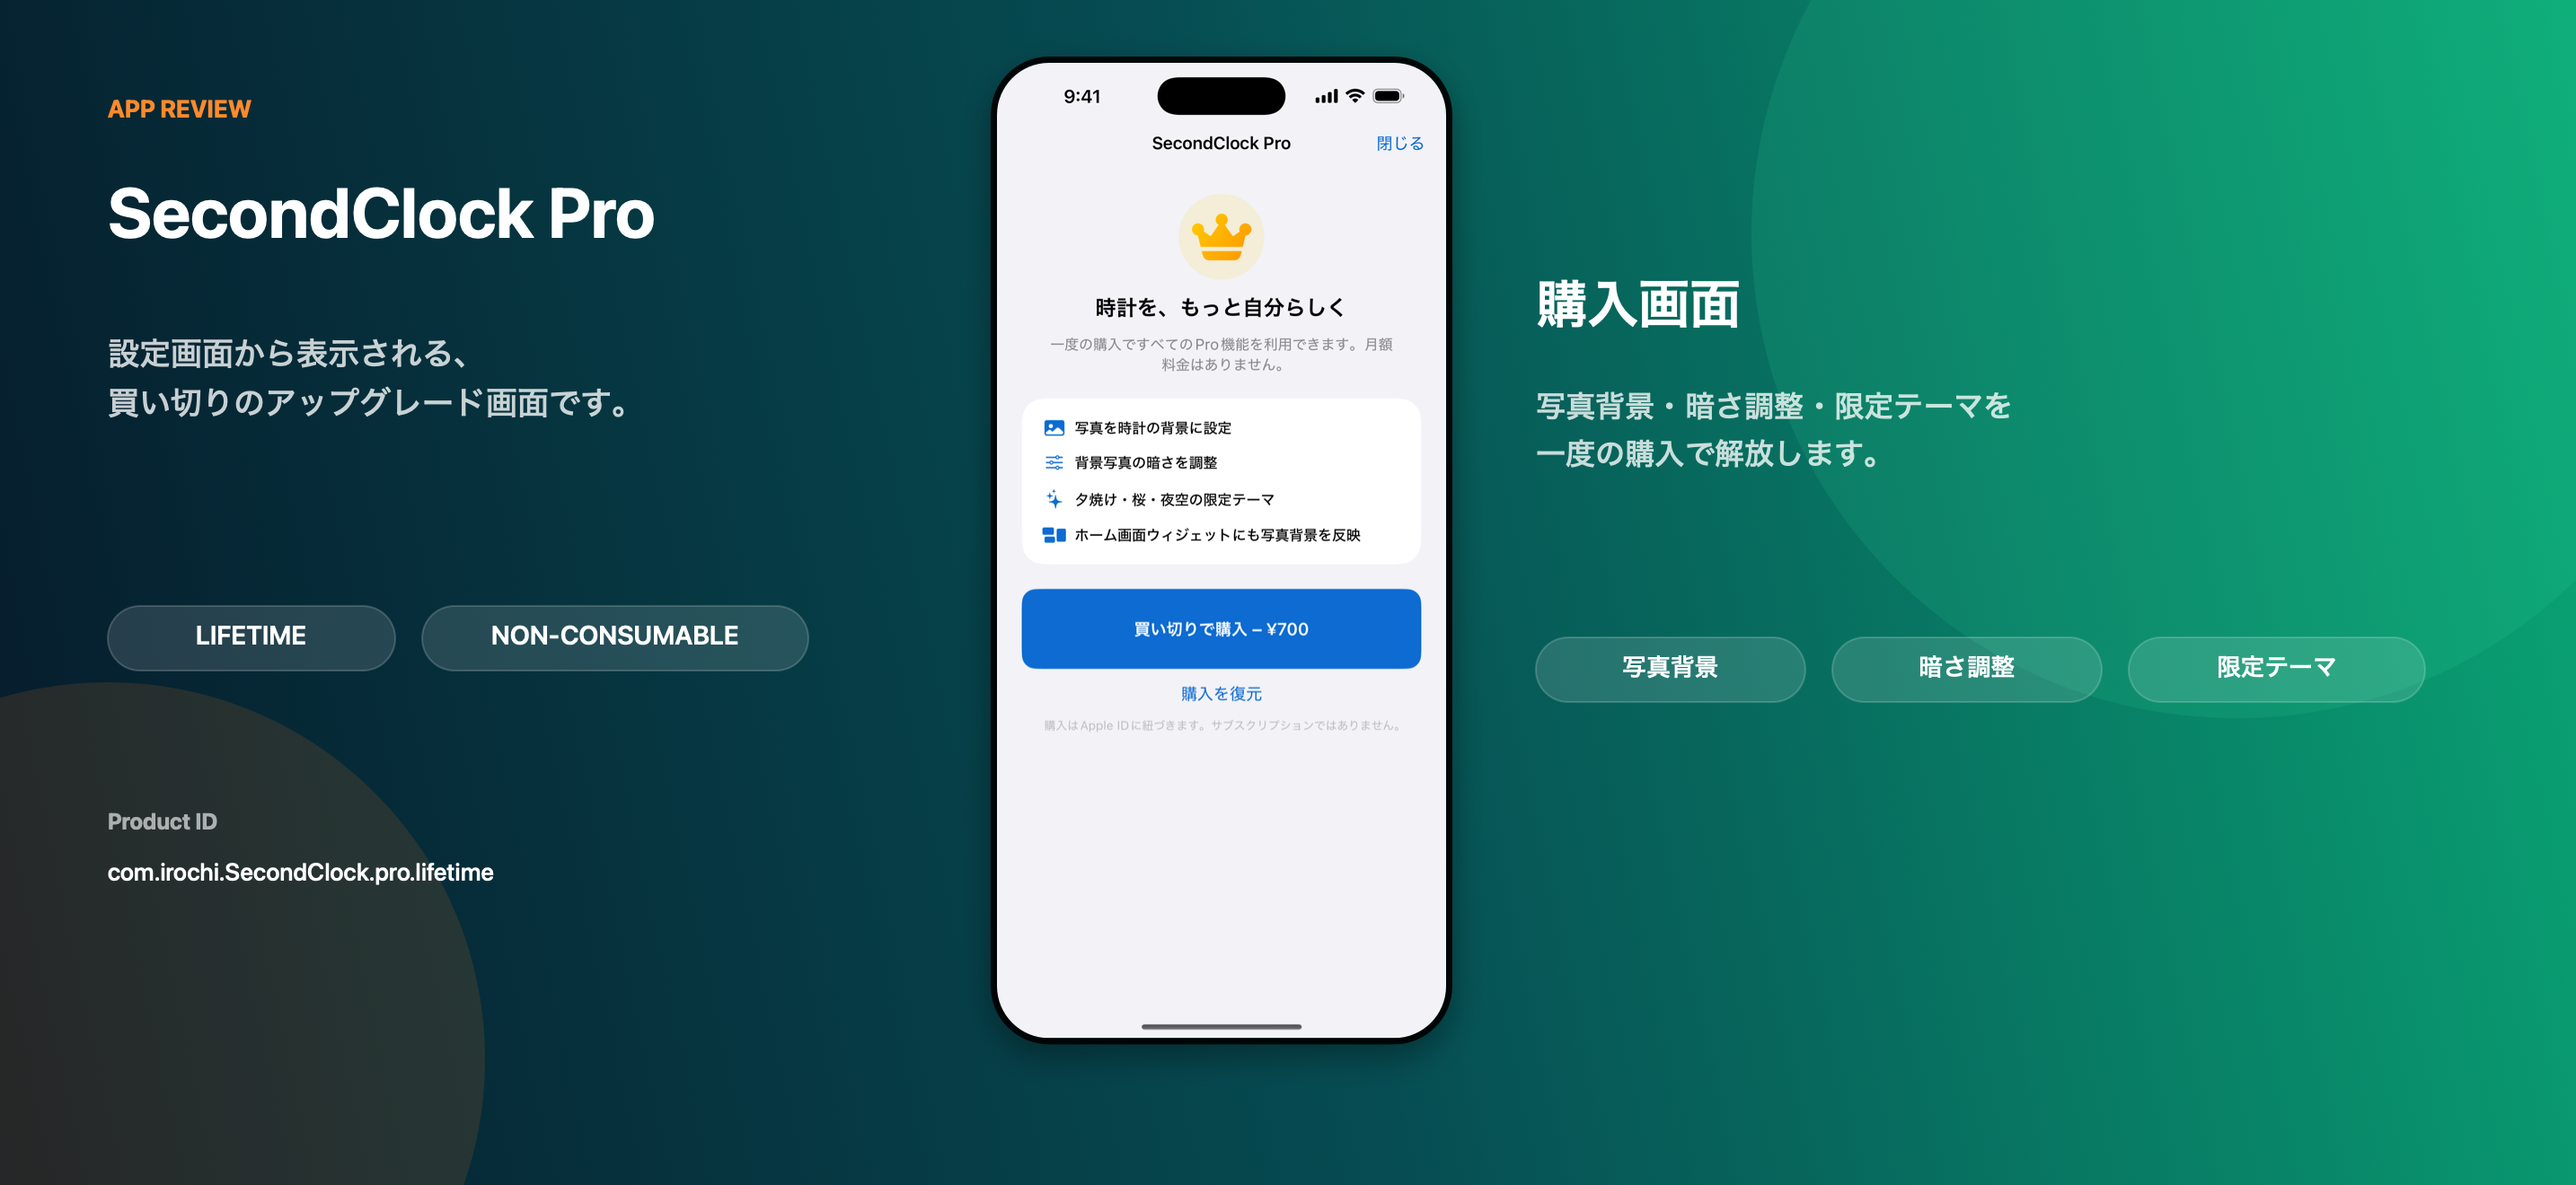
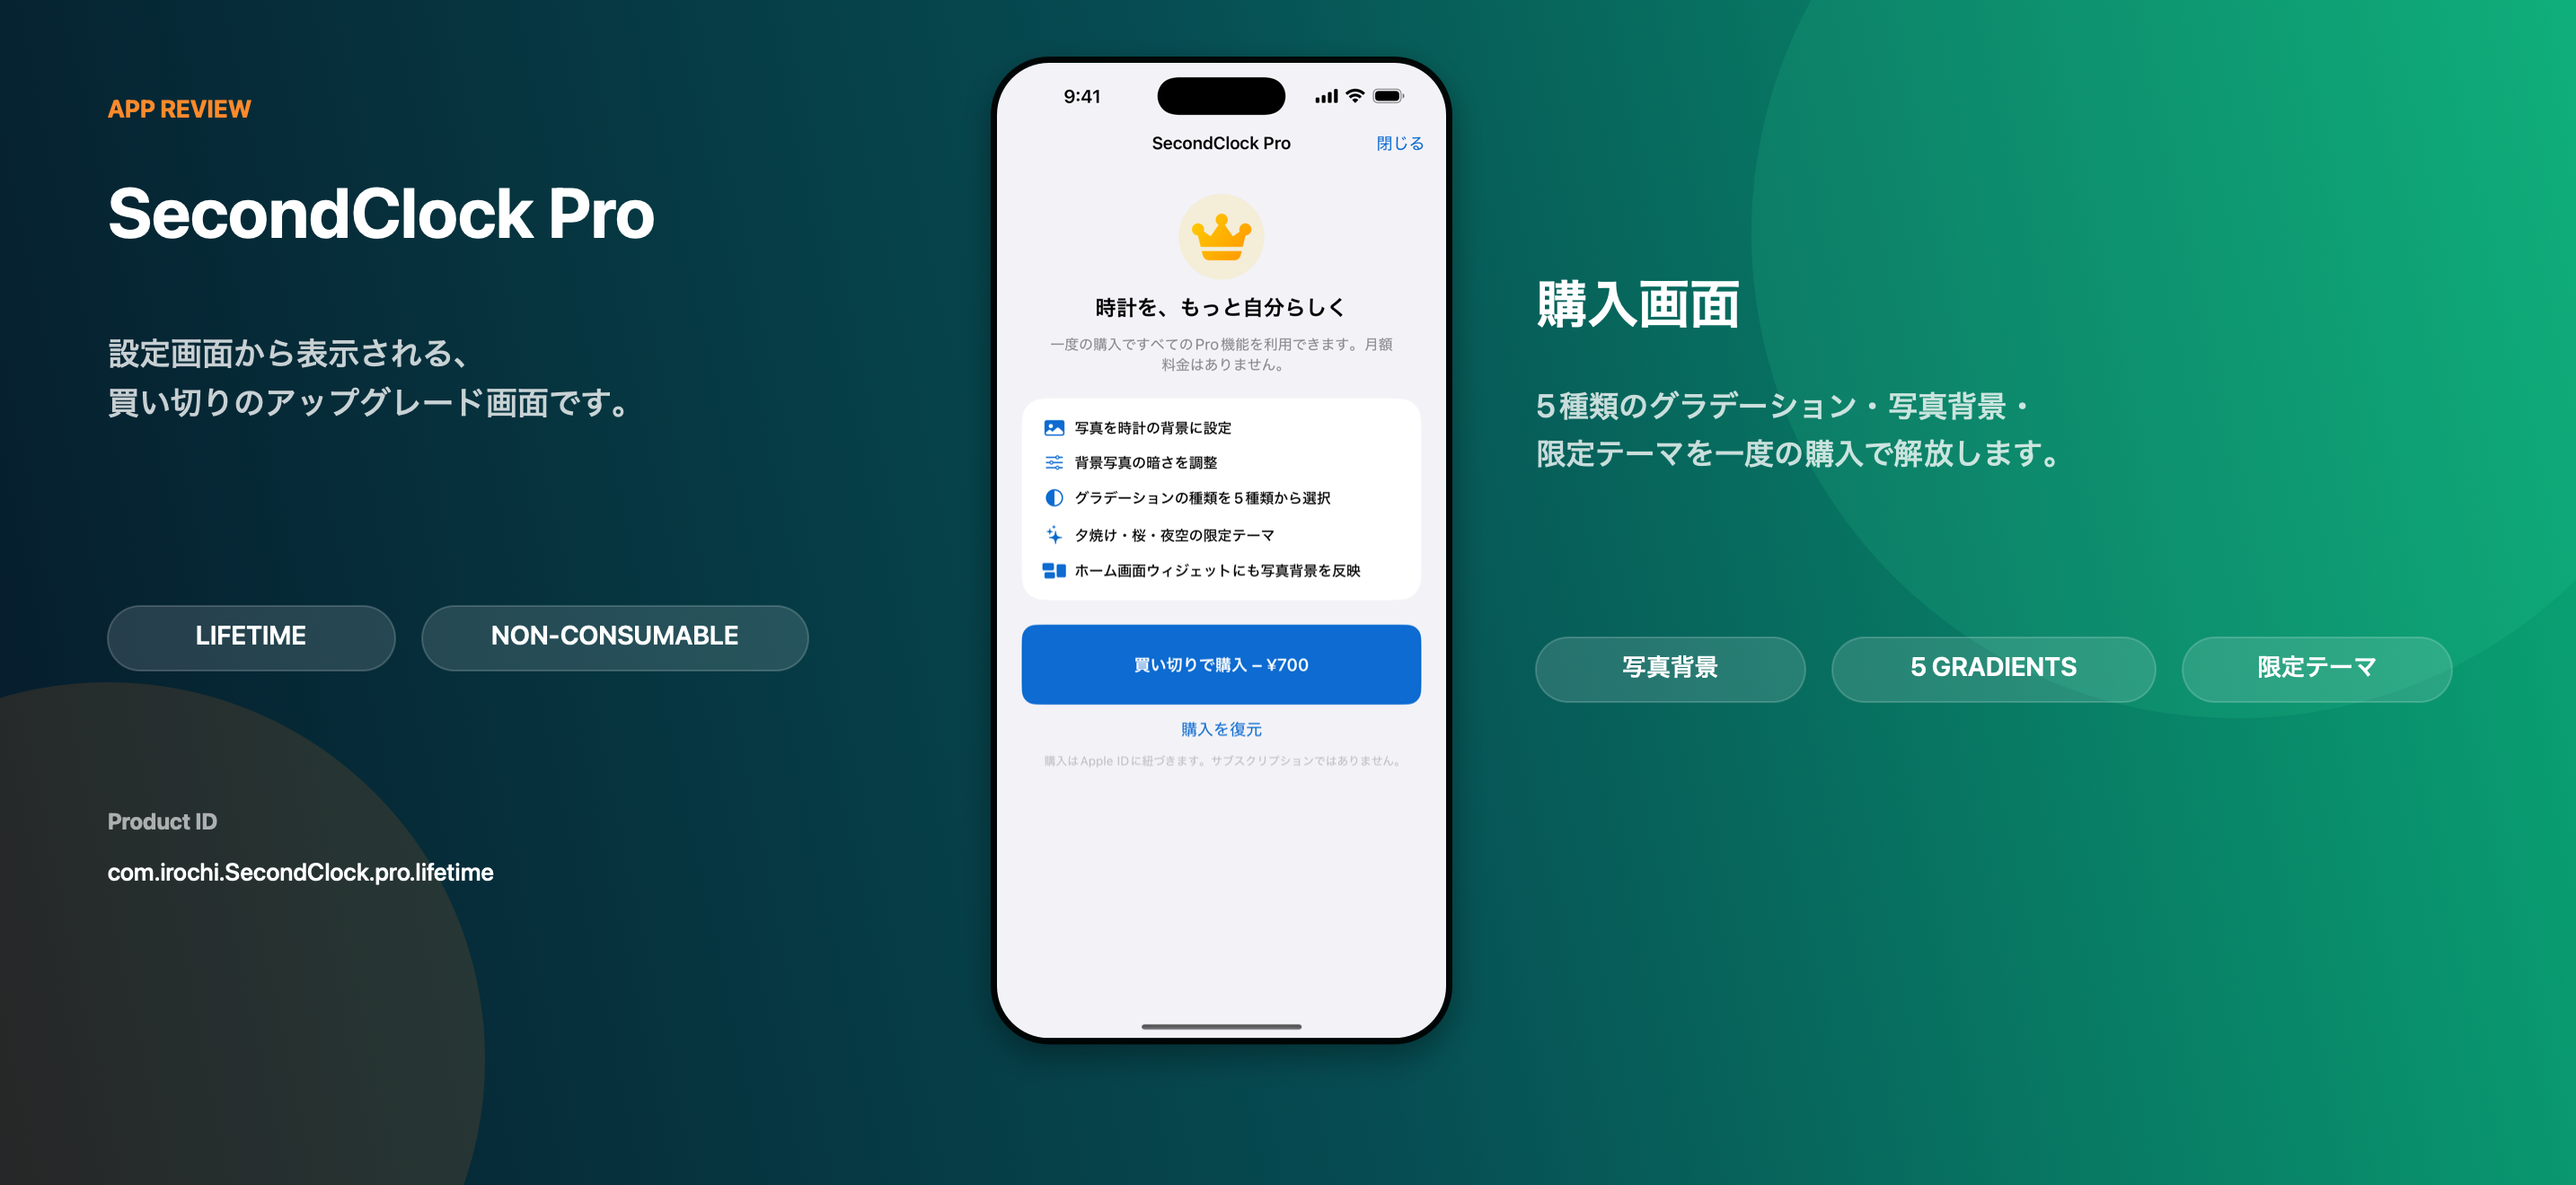
Add Pro gradient style selection

diff --git a/Shared/ClockPreferences.swift b/Shared/ClockPreferences.swift
@@ -43,6 +43,26 @@ enum ClockDisplaySize: String, Codable, CaseIterable, Identifiable {
     }
 }
 
+enum ClockGradientStyle: String, Codable, CaseIterable, Identifiable {
+    case diagonalDown
+    case diagonalUp
+    case horizontal
+    case vertical
+    case radial
+
+    var id: String { rawValue }
+
+    var title: String {
+        switch self {
+        case .diagonalDown: "左上 → 右下"
+        case .diagonalUp: "左下 → 右上"
+        case .horizontal: "左 → 右"
+        case .vertical: "上 → 下"
+        case .radial: "中央 → 外側"
+        }
+    }
+}
+
 enum ClockFontDesign: String, Codable, CaseIterable, Identifiable {
     case rounded
     case standard
@@ -146,6 +166,7 @@ struct ClockPreferences: Codable, Equatable {
     var solidColor: RGBAColor
     var gradientStartColor: RGBAColor
     var gradientEndColor: RGBAColor
+    var gradientStyle: ClockGradientStyle
     var photoDimming: Double
 
     static let `default` = ClockPreferences(
@@ -158,6 +179,7 @@ struct ClockPreferences: Codable, Equatable {
         solidColor: .midnight,
         gradientStartColor: .indigo,
         gradientEndColor: .blue,
+        gradientStyle: .diagonalDown,
         photoDimming: 0.28
     )
 
@@ -171,6 +193,7 @@ struct ClockPreferences: Codable, Equatable {
         case solidColor
         case gradientStartColor
         case gradientEndColor
+        case gradientStyle
         case photoDimming
     }
 
@@ -184,6 +207,7 @@ struct ClockPreferences: Codable, Equatable {
         solidColor: RGBAColor,
         gradientStartColor: RGBAColor,
         gradientEndColor: RGBAColor,
+        gradientStyle: ClockGradientStyle,
         photoDimming: Double
     ) {
         self.showDate = showDate
@@ -195,6 +219,7 @@ struct ClockPreferences: Codable, Equatable {
         self.solidColor = solidColor
         self.gradientStartColor = gradientStartColor
         self.gradientEndColor = gradientEndColor
+        self.gradientStyle = gradientStyle
         self.photoDimming = photoDimming
     }
 
@@ -220,6 +245,8 @@ struct ClockPreferences: Codable, Equatable {
             ?? defaults.gradientStartColor
         gradientEndColor = try values.decodeIfPresent(RGBAColor.self, forKey: .gradientEndColor)
             ?? defaults.gradientEndColor
+        gradientStyle = try values.decodeIfPresent(ClockGradientStyle.self, forKey: .gradientStyle)
+            ?? defaults.gradientStyle
         photoDimming = try values.decodeIfPresent(Double.self, forKey: .photoDimming)
             ?? defaults.photoDimming
     }
@@ -235,6 +262,7 @@ struct ClockPreferences: Codable, Equatable {
         try values.encode(solidColor, forKey: .solidColor)
         try values.encode(gradientStartColor, forKey: .gradientStartColor)
         try values.encode(gradientEndColor, forKey: .gradientEndColor)
+        try values.encode(gradientStyle, forKey: .gradientStyle)
         try values.encode(photoDimming, forKey: .photoDimming)
     }
 }

diff --git a/Shared/ClockAppearance.swift b/Shared/ClockAppearance.swift
@@ -19,14 +19,7 @@ struct ClockBackgroundView: View {
             preferences.solidColor.color
 
         case .gradient:
-            LinearGradient(
-                colors: [
-                    preferences.gradientStartColor.color,
-                    preferences.gradientEndColor.color
-                ],
-                startPoint: .topLeading,
-                endPoint: .bottomTrailing
-            )
+            gradientBackground
 
         case .photo:
             if let image = loadsWidgetSizedPhoto
@@ -50,6 +43,34 @@ struct ClockBackgroundView: View {
                     ],
                     startPoint: .topLeading,
                     endPoint: .bottomTrailing
+                )
+            }
+        }
+    }
+
+    @ViewBuilder
+    private var gradientBackground: some View {
+        let colors = [
+            preferences.gradientStartColor.color,
+            preferences.gradientEndColor.color
+        ]
+
+        switch preferences.gradientStyle {
+        case .diagonalDown:
+            LinearGradient(colors: colors, startPoint: .topLeading, endPoint: .bottomTrailing)
+        case .diagonalUp:
+            LinearGradient(colors: colors, startPoint: .bottomLeading, endPoint: .topTrailing)
+        case .horizontal:
+            LinearGradient(colors: colors, startPoint: .leading, endPoint: .trailing)
+        case .vertical:
+            LinearGradient(colors: colors, startPoint: .top, endPoint: .bottom)
+        case .radial:
+            GeometryReader { geometry in
+                RadialGradient(
+                    colors: colors,
+                    center: .center,
+                    startRadius: 0,
+                    endRadius: max(geometry.size.width, geometry.size.height) * 0.72
                 )
             }
         }

diff --git a/SecondClock/ContentView.swift b/SecondClock/ContentView.swift
@@ -310,6 +310,26 @@ struct ClockSettingsView: View {
                 )
 
             case .gradient:
+                if purchaseManager.isProUnlocked {
+                    Picker(
+                        "グラデーションの種類",
+                        selection: $settingsStore.preferences.gradientStyle
+                    ) {
+                        ForEach(ClockGradientStyle.allCases) { style in
+                            Text(style.title).tag(style)
+                        }
+                    }
+                    .pickerStyle(.menu)
+                } else {
+                    LockedSettingButton(title: "グラデーションの種類を変更") {
+                        showsPaywall = true
+                    }
+
+                    Text("無料版では「左上 → 右下」を使用します。")
+                        .font(.footnote)
+                        .foregroundStyle(.secondary)
+                }
+
                 ColorPicker(
                     "開始色",
                     selection: colorBinding(for: \ClockPreferences.gradientStartColor),
@@ -414,7 +434,7 @@ struct ClockSettingsView: View {
                         VStack(alignment: .leading, spacing: 4) {
                             Text("SecondClock Pro")
                                 .font(.headline)
-                            Text("写真背景と限定テーマを買い切りで解放")
+                            Text("写真背景・限定テーマ・グラデーション種類を解放")
                                 .font(.footnote)
                                 .foregroundStyle(.secondary)
                                 .multilineTextAlignment(.leading)

diff --git a/AppStore/Screenshots/make_screenshots.swift b/AppStore/Screenshots/make_screenshots.swift
@@ -255,10 +255,10 @@ private func makeIAPReview(output: URL) {
         drawText("com.irochi.SecondClock.pro.lifetime", x: 120, top: 955, width: 820, height: 70, size: 27, weight: .medium)
         drawScreen(image("04-paywall.png"), x: 1110, top: 70, width: 500, radius: 58, border: 7)
         drawText("購入画面", x: 1710, top: 300, width: 900, height: 80, size: 62, weight: .bold)
-        drawText("写真背景・暗さ調整・限定テーマを\n一度の購入で解放します。", x: 1710, top: 430, width: 940, height: 150, size: 36, weight: .medium, color: .white.withAlphaComponent(0.78), lineSpacing: 10)
+        drawText("5種類のグラデーション・写真背景・\n限定テーマを一度の購入で解放します。", x: 1710, top: 430, width: 940, height: 150, size: 36, weight: .medium, color: .white.withAlphaComponent(0.78), lineSpacing: 10)
         drawPill("写真背景", x: 1710, top: 710, width: 300)
-        drawPill("暗さ調整", x: 2040, top: 710, width: 300)
-        drawPill("限定テーマ", x: 2370, top: 710, width: 330)
+        drawPill("5 GRADIENTS", x: 2040, top: 710, width: 360)
+        drawPill("限定テーマ", x: 2430, top: 710, width: 300)
     }
 }
 

diff --git a/SecondClockTests/ClockAccessPolicyTests.swift b/SecondClockTests/ClockAccessPolicyTests.swift
@@ -51,12 +51,22 @@ final class ClockAccessPolicyTests: XCTestCase {
         )
     }
 
+    func testFreeAccessUsesDefaultGradientStyle() {
+        var preferences = ClockPreferences.default
+        preferences.gradientStyle = .radial
+
+        let effective = preferences.applying(accessLevel: .free)
+
+        XCTAssertEqual(effective.gradientStyle, .diagonalDown)
+    }
+
     func testProAccessPreservesEveryPreference() {
         var preferences = ClockPreferences.default
         preferences.fontDesign = .monospaced
         preferences.fontWeight = .bold
         preferences.textColor = RGBAColor(red: 0.8, green: 0.4, blue: 0.2)
         preferences.backgroundStyle = .photo
+        preferences.gradientStyle = .radial
         preferences.photoDimming = 0.6
 
         XCTAssertEqual(

diff --git a/AppStore/Site/app/page.tsx b/AppStore/Site/app/page.tsx
@@ -48,7 +48,7 @@ export default function Home() {
           <p className="eyebrow">SECONDClock PRO</p>
           <h2>もっと自由に、買い切りで。</h2>
         </div>
-        <p>写真背景、写真の暗さ調整、夕焼け・桜・夜空の限定テーマをアプリ内課金で解放できます。サブスクリプションではありません。</p>
+        <p>5種類のグラデーション、写真背景と暗さ調整、夕焼け・桜・夜空の限定テーマをアプリ内課金で解放できます。サブスクリプションではありません。</p>
       </section>
 
       <footer className="footer">

diff --git a/SecondClock/ProPaywallView.swift b/SecondClock/ProPaywallView.swift
@@ -80,6 +80,7 @@ struct ProPaywallView: View {
         VStack(alignment: .leading, spacing: 16) {
             ProFeatureRow(icon: "photo.fill", title: "写真を時計の背景に設定")
             ProFeatureRow(icon: "slider.horizontal.3", title: "背景写真の暗さを調整")
+            ProFeatureRow(icon: "circle.lefthalf.filled", title: "グラデーションの種類を5種類から選択")
             ProFeatureRow(icon: "sparkles", title: "夕焼け・桜・夜空の限定テーマ")
             ProFeatureRow(icon: "rectangle.3.group.fill", title: "ホーム画面ウィジェットにも写真背景を反映")
         }

diff --git a/Shared/ClockAccessPolicy.swift b/Shared/ClockAccessPolicy.swift
@@ -32,6 +32,7 @@ extension ClockPreferences {
         guard accessLevel == .free else { return self }
 
         var effective = self
+        effective.gradientStyle = .diagonalDown
 
         switch effective.backgroundStyle {
         case .system, .solid, .gradient:

diff --git a/AppStore/Review/In-App-Purchase.md b/AppStore/Review/In-App-Purchase.md
@@ -11,9 +11,9 @@
 ## App Store表示情報
 
 - 表示名：`SecondClock Pro`
-- 説明：`写真背景と限定テーマを買い切りで解放`
+- 説明：`写真背景・限定テーマ・グラデーション種類を解放`
 - 英語表示名：`SecondClock Pro`
-- 英語説明：`Unlock photo backgrounds and exclusive themes.`
+- 英語説明：`Unlock photos, themes, and gradient styles.`
 
 ## Review Notes
 
@@ -25,7 +25,7 @@ Access steps:
 3. Tap the “SecondClock Pro” card.
 4. The purchase button and “購入を復元” (Restore Purchases) button are shown on the paywall.
 
-Pro unlocks photo backgrounds, photo dimming controls, three exclusive themes (Sunset, Sakura, and Night Sky), and photo backgrounds on Home Screen widgets.
+Pro unlocks five gradient styles, photo backgrounds, photo dimming controls, three exclusive themes (Sunset, Sakura, and Night Sky), and photo backgrounds on Home Screen widgets.
 
 No account or sign-in is required. The review screenshot is `AppStore/Review/iap-review.png`.
 

diff --git a/README.md b/README.md
@@ -22,7 +22,7 @@
 
 無料版では、すべての書体と太さ、文字色、単色・グラデーションの自由な配色、オーロラ・オーシャンテーマを利用できます。これらの設定はウィジェットにも反映されます。
 
-SecondClock Proでは、写真背景と写真の暗さ調整、夕焼け・桜・夜空の限定テーマを買い切りで解放します。写真背景はホーム画面ウィジェットにも反映されます。
+SecondClock Proでは、5種類のグラデーション、写真背景と暗さ調整、夕焼け・桜・夜空の限定テーマを買い切りで解放します。写真背景はホーム画面ウィジェットにも反映されます。
 
 ## 動作条件
 

diff --git a/AppStore/Metadata/ja-JP.md b/AppStore/Metadata/ja-JP.md
@@ -39,7 +39,7 @@ SecondClockは、現在時刻を秒まで大きく表示する、シンプルで
 
 SecondClock Pro
 
-一度の購入で、写真背景と写真の暗さ調整、夕焼け・桜・夜空の限定テーマを解放できます。月額料金はありません。
+一度の購入で、5種類のグラデーション、写真背景と暗さ調整、夕焼け・桜・夜空の限定テーマを解放できます。月額料金はありません。
 
 購入済みの場合は、設定画面からいつでも復元できます。
 

diff --git a/AppStore/Monetization-Plan.md b/AppStore/Monetization-Plan.md
@@ -19,6 +19,7 @@
 
 ## SecondClock Pro
 
+- 5種類のグラデーション（対角線2方向、横、縦、放射状）
 - 写真背景
 - 写真の暗さ調整
 - 夕焼け／桜／夜空の限定テーマ
